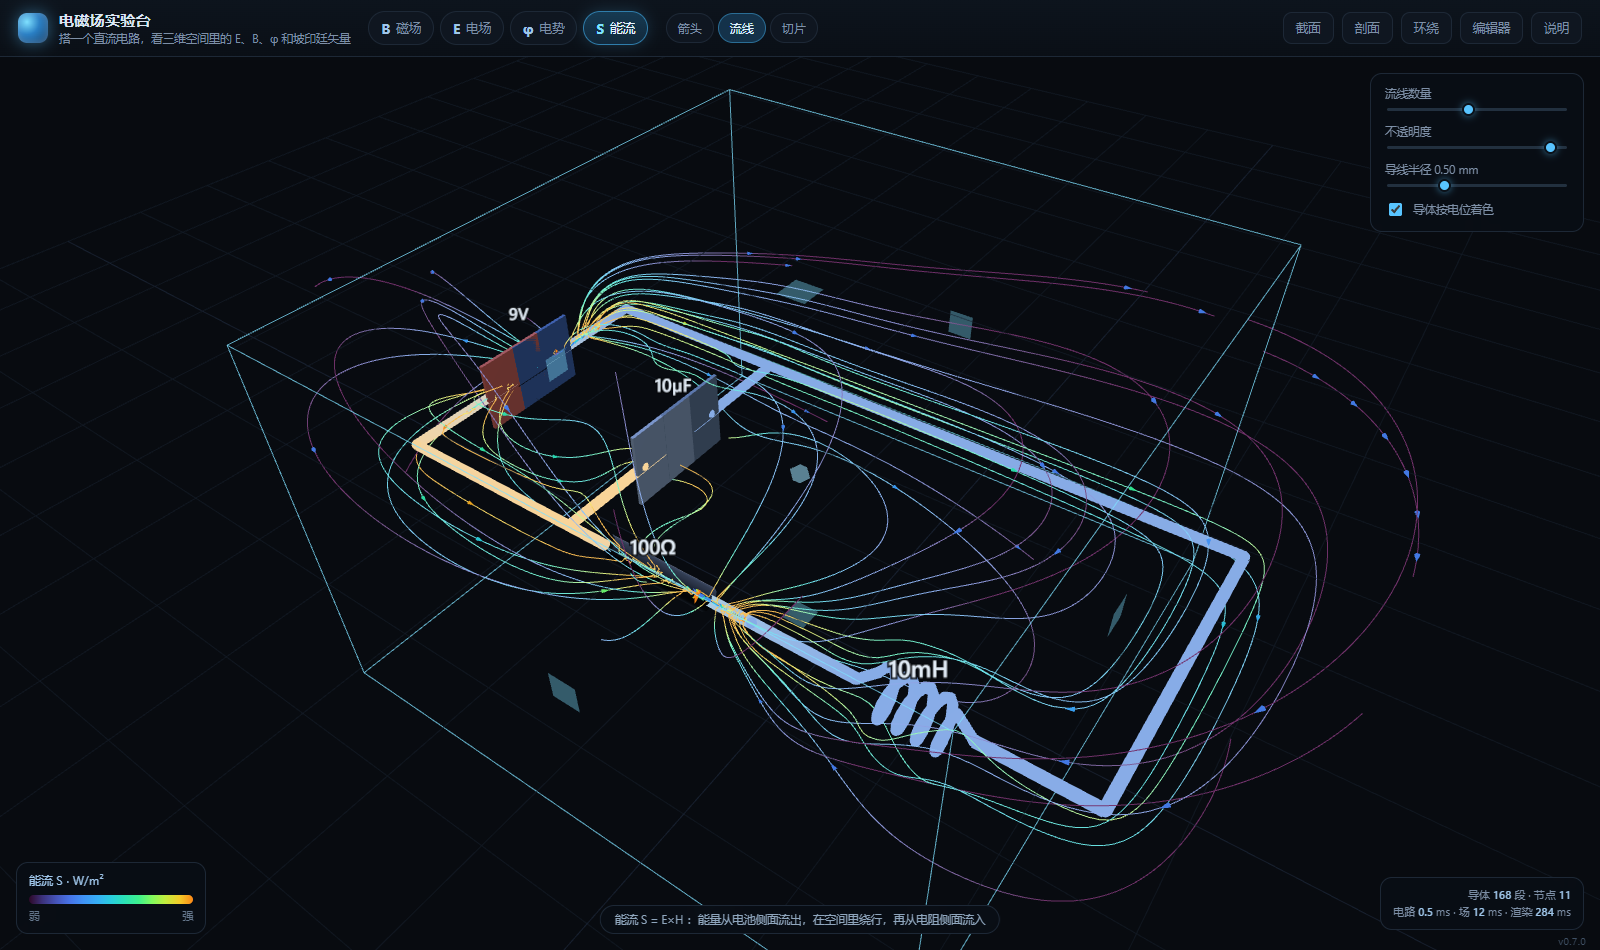
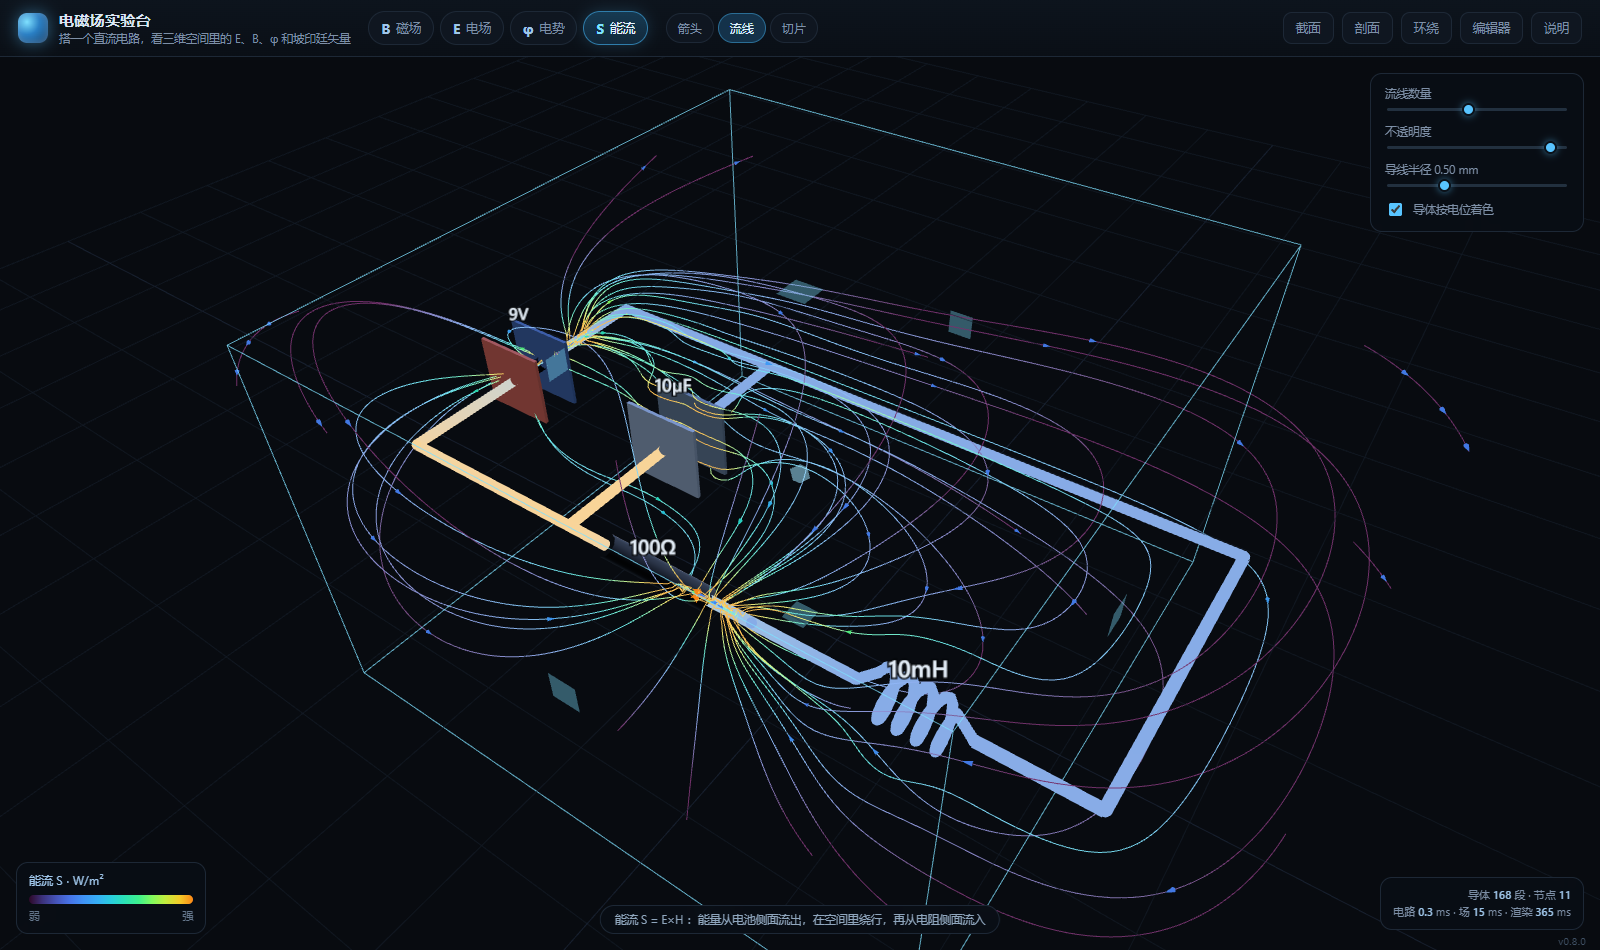
fix: 极板用右手基构造姿态；零场不再画成满色箭头；截取空间独立密度滑杆（v0.8.0）
- scene: (axis, up, side) 拼出来的矩阵行列式可能是 −1（左手系），
  setFromRotationMatrix 会得到无效四元数，导致电池/电容两块极板朝向错乱、
  看起来像同向重叠。改为 Z = X×Y 强制右手正交基。
- viz: 增加 ZERO_FLOOR（|S|<1e-6、|B|<1e-12、|E|<1e-3）——分位数归一化会把
  1e-9 的数值噪音放大成满色满长度，删掉电容电感后就会「看起来还有能流」。
  空样本时也置 zero 标记；app 在零场时给出提示。
- app/index: 截取空间增加自己的密度滑杆，与主视图分开控制
- test: 新增「断路时 |S| 判定为零场」回归测试（35 项）
- 版本 0.8.0，文档与截图更新

diff --git a/js/app.js b/js/app.js
@@ -1,7 +1,7 @@
 /**
  * app.js —— 把电路编辑器、求解器、三维场景和可视化面板接在一起
  */
-import { createDefaultCircuit, solveCircuit, buildScene, TYPES } from './circuit.js';
+import { createDefaultCircuit, solveCircuit, buildScene, TYPES, newId } from './circuit.js';
 import { METER_PER_UNIT } from './field.js';
 import { Editor2D } from './editor2d.js';
 import { Scene3D } from './scene.js';
@@ -29,7 +29,8 @@ const HINTS = {
 const state = {
   field: 'B',
   mode: 'stream',
-  density: 0.45,
+  density: 0.45,       // 主视图
+  paneDensity: 0.45,   // 截取空间（单独控制）
   opacity: 0.95,
   sliceAxis: 'y',
   slicePos: 0,
@@ -146,7 +147,7 @@ function updatePane() {
   slicePane.update({
     field: state.field,
     mode: state.mode,
-    density: state.density,
+    density: state.paneDensity,
     opacity: state.opacity,
     colorByPotential: state.colorByPot,
     sliceAxis: state.sliceAxis,
@@ -168,6 +169,9 @@ function updateViz() {
     sliceAxis: state.sliceAxis,
     slicePos: state.slicePos,
   });
+  if (viz.zero) {
+    $('hint').textContent = '当前场强近似为零：电路里没有电流（或没有电荷），所以画不出场';
+  }
   const t = $('stats');
   const n = viz.lastStats?.count ?? viz.lastStats?.lines ?? viz.lastStats?.N ?? 0;
   if (n) t.dataset.samples = n;
@@ -319,6 +323,12 @@ spBind('sp-sz', 'sz', 10);
 $('sp-fit')?.addEventListener('click', () => slicePane.frame());
 $('sp-showbox')?.addEventListener('change', (e) => boxGizmo.setVisible(e.target.checked));
 
+$('sp-density')?.addEventListener('input', (e) => {
+  state.paneDensity = +e.target.value / 100;
+  clearTimeout(window.__pdv);
+  window.__pdv = setTimeout(updatePane, 140);
+});
+
 $('btn-slice').addEventListener('click', () => {
   state.sliceOn = !state.sliceOn;
   $('btn-slice').classList.toggle('active', state.sliceOn);
@@ -342,6 +352,7 @@ $('btn-analysis').addEventListener('click', () => {
 $('wire-radius').addEventListener('input', (e) => {
   state.wireRadius = +e.target.value / 100;   // 1..14 → 0.01..0.14
   $('wire-label').textContent = `导线半径 ${(state.wireRadius * 10).toFixed(2)} mm`;
+  if ($('sp-density')) $('sp-density').value = String(Math.round(state.paneDensity * 100));
   clearTimeout(window.__wr);
   window.__wr = setTimeout(() => scheduleRebuild(false), 120);
 });
@@ -422,6 +433,8 @@ const qs = new URLSearchParams(location.search);
   const m = qs.get('mode');
   if (m && FIELD_INFO[state.field].modes.includes(m)) state.mode = m;
   if (qs.has('density')) state.density = Math.min(1, Math.max(0, +qs.get('density') / 100));
+  if (qs.has('pdensity')) state.paneDensity = Math.min(1, Math.max(0, +qs.get('pdensity') / 100));
+  else if (qs.has('density')) state.paneDensity = state.density;
   if (qs.has('slicePos')) state.slicePos = Math.min(1, Math.max(-1, +qs.get('slicePos') / 100));
   if (qs.get('sliceAxis')) state.sliceAxis = qs.get('sliceAxis');
   if (qs.get('analysis') === '1') state.analysisOn = true;
@@ -603,6 +616,26 @@ function runSelfTest() {
       ok(true, '截取空间面板');
     } catch (err) {
       ok(false, '截取空间面板抛错', String(err.message).slice(0, 80));
+    }
+
+    // 9.7 断路（电池 + 两根断头线）→ 判定为零场，不画任何东西
+    try {
+      const backup = circuit.elements;
+      const e = (type, a, b, v) => ({ id: newId(), type, a, b, value: v });
+      circuit.elements = [
+        e('battery', [0, 0], [0, 3], 9),
+        e('wire', [0, 3], [4, 3]),
+        e('wire', [0, 0], [4, 0]),
+      ];
+      state.field = 'S'; state.mode = 'arrows';
+      lastCount = -1;
+      rebuild();
+      ok(viz.zero === true, '断路时 |S| 判定为零场（不画箭头）');
+      circuit.elements = backup;
+      lastCount = -1;
+      rebuild();
+    } catch (err) {
+      ok(false, '断路判定抛错', String(err.message).slice(0, 80));
     }
 
     // 10. 清空后不崩溃

diff --git a/js/viz.js b/js/viz.js
@@ -10,6 +10,10 @@ import { MU0 } from './field.js';
 const W2M = 0.01;
 const M2W = 100;
 
+// 这些场强以下就当作「零」：否则分位数归一化会把 1e-9 的数值噪音也拉成满色满长度，
+// 看起来就像断路也有能流。
+const ZERO_FLOOR = { E: 1e-3, B: 1e-12, S: 1e-6, phi: 1e-6 };
+
 /* ---------------- 配色 ---------------- */
 const TURBO = [
   [0.02, [0.19, 0.07, 0.23]],
@@ -155,6 +159,7 @@ export class FieldViz {
    */
   update(o) {
     this.dispose();
+    this.zero = false;
     const { solver, bounds, field } = o;
     if (!solver || !solver.n) return;
     if (field === 'phi' && o.mode !== 'slice') o = { ...o, mode: 'slice' };
@@ -203,7 +208,8 @@ export class FieldViz {
         }
       }
     }
-    if (!mags.length) return;
+    if (!mags.length) { this.zero = true; return; }
+    if (Math.max(...mags) < (ZERO_FLOOR[field] ?? 0)) { this.zero = true; return; }
 
     const norm = makeNorm(mags);
     // 砍掉两端：极弱的点方向是噪声，极强的点集中在导体表面会把色标拉爆
@@ -287,7 +293,8 @@ export class FieldViz {
         marks.push({ p: line[i], d: [dx / l, dy / l, dz / l], m: lineMags[i] });
       }
     }
-    if (!mags.length) return;
+    if (!mags.length) { this.zero = true; return; }
+    if (Math.max(...mags) < (ZERO_FLOOR[field] ?? 0)) { this.zero = true; return; }
     const norm = makeNorm(mags);
     for (const { line, lineMags } of allPts) {
       for (let i = 0; i < line.length - 1; i++) {
@@ -429,6 +436,14 @@ export class FieldViz {
         vals[j * N + i] = isFinite(val) ? val : 0;
       }
     }
+
+    // 全零就直接跳过
+    let maxAbs = 0;
+    for (let k = 0; k < vals.length; k++) {
+      const v = Math.abs(vals[k]);
+      if (v > maxAbs) maxAbs = v;
+    }
+    if (maxAbs < (ZERO_FLOOR[field] ?? 0)) { this.zero = true; return; }
 
     // 归一化
     let toColor, levelOf;

diff --git a/js/scene.js b/js/scene.js
@@ -246,11 +246,14 @@ export class Scene3D {
         const geo = new THREE.BoxGeometry(size[0], size[1], size[2]);
         const col = new THREE.Color(MAT_COLORS[p.mat] ?? 0xffffff);
         const mesh = new THREE.Mesh(geo, getMat(p.mat, { color: col, metalness: 0.4, roughness: 0.5 }));
-        const m = new THREE.Matrix4().makeBasis(
-          new THREE.Vector3(...p.axis),
-          new THREE.Vector3(...p.up),
-          new THREE.Vector3(...p.side)
-        );
+        // 用右手正交基构造姿态：Z 由 X×Y 算出来。
+        // 直接拿 (axis, up, side) 拼矩阵时行列式可能是 −1（左手系），
+        // setFromRotationMatrix 会给出一个无效的四元数，极板朝向就乱了。
+        const ax = new THREE.Vector3(...p.axis).normalize();
+        const uy = new THREE.Vector3(...p.up);
+        uy.addScaledVector(ax, -ax.dot(uy)).normalize();      // 与 ax 正交化
+        const sz = new THREE.Vector3().crossVectors(ax, uy).normalize();
+        const m = new THREE.Matrix4().makeBasis(ax, uy, sz);
         mesh.quaternion.setFromRotationMatrix(m);
         mesh.position.set(...p.center);
         this.circuitGroup.add(mesh);

diff --git a/index.html b/index.html
@@ -94,6 +94,7 @@
         <label><span>长 X</span><input type="range" id="sp-sx" min="6" max="90" value="48"></label>
         <label><span>高 Y</span><input type="range" id="sp-sy" min="6" max="90" value="30"></label>
         <label><span>宽 Z</span><input type="range" id="sp-sz" min="6" max="90" value="48"></label>
+        <label><span>密度</span><input type="range" id="sp-density" min="0" max="100" value="45"></label>
       </div>
     </section>
     </div>

diff --git a/js/version.js b/js/version.js
@@ -2,5 +2,5 @@
  * version.js —— 版本号的唯一来源
  * BUILD 由 tools/build_single.py 在打包时写入 git 短哈希。
  */
-export const VERSION = '0.7.0';
+export const VERSION = '0.8.0';
 export const BUILD = null;

diff --git a/README.md b/README.md
@@ -85,7 +85,8 @@ python -m http.server 8765    # 然后开 http://127.0.0.1:8765/
 - **底部六个滑杆**：`中心 X/Y/Z`、`长 X`、`高 Y`、`宽 Z`
 
 主视图里那个青色线框可以用「显示截取框」单独关掉——**关掉只影响线框，不影响下面这块的裁剪**。
-两个视图共用同一个「流线数量 / 箭头密度」滑杆；因为体块比整个场景小，同样的数量落到里面天然更密。
+两个视图各有自己的「密度」滑杆（主视图右上角、截取空间底部），互不影响；
+因为体块比整个场景小，同样的数量落到里面本来就更密，所以两边的默认值虽然一样，观感并不一样。
 
 面板有自己独立的相机（拖拽/滚轮），「复位视角」把它拉回初始方位；默认方位和主视图一致，方便左右对照。
 
@@ -198,6 +199,7 @@ node tools/test_core.mjs       # 电路 + 场的核心自检
 - 导体内部 `E∥` 与 `I·R/L`、`B` 与 `μ0I/2πa`、`S` 与功率密度三者互相吻合
 - **坡印廷定理**：包围电阻的闭合曲面 ∫S·n̂ dA = −0.917 W，对上 I²R = 0.809 W（误差 13%，符号为内流）
 - **真断路**（电池 + 两根断头线）：电流 0 → B = 0 → S = 0，不会凭空出现能流
+- 删掉电容电感后同样判定为零场（自检里的「断路时 |S| 判定为零场」）
 
 ## 版本控制
 
@@ -236,6 +238,10 @@ em-field-lab/
 - 边界元用细线近似，边缘效应只到「几条平行线电荷」的精度；导线加粗后表面附近的场偏强。
 - 截面的三维切片用的是 88² 贴图（拖动才不卡），要看细节请用独立窗口。
 - 相机取景是自动的，没有手动「聚焦到某个元件」。
+- 场强低于阈值（|S| < 1e-6 W/m²、|B| < 1e-12 T、|E| < 1e-3 V/m）时**什么都不画**：
+  归一化是按分位数做的，不设地板的话会把 1e-9 的数值噪音放大成满色箭头，
+  看起来就像断路也有能流。断路时 |S|、|B| 会正确地判为零而不显示，但 φ 和 E 仍然存在
+  （开路导体依然带电荷），这是对的。
 - 细长电阻周围的能流并不严格垂直于导线：靠近导线处 E 的轴向分量可能比径向还大，
   所以 S 会斜着指向导体。这是真实的场结构（能量主要沿导线外侧流过去，再折向内部），
   闭合曲面上的总通量仍然对上 I²R。
